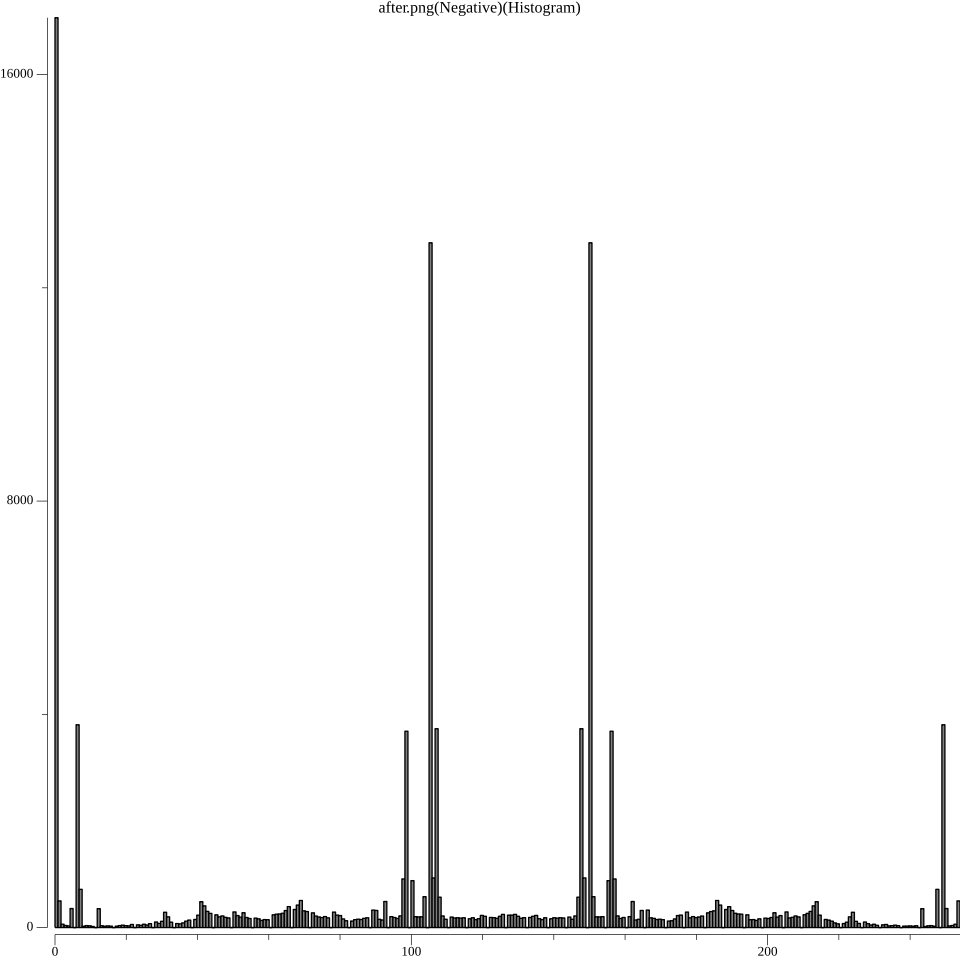
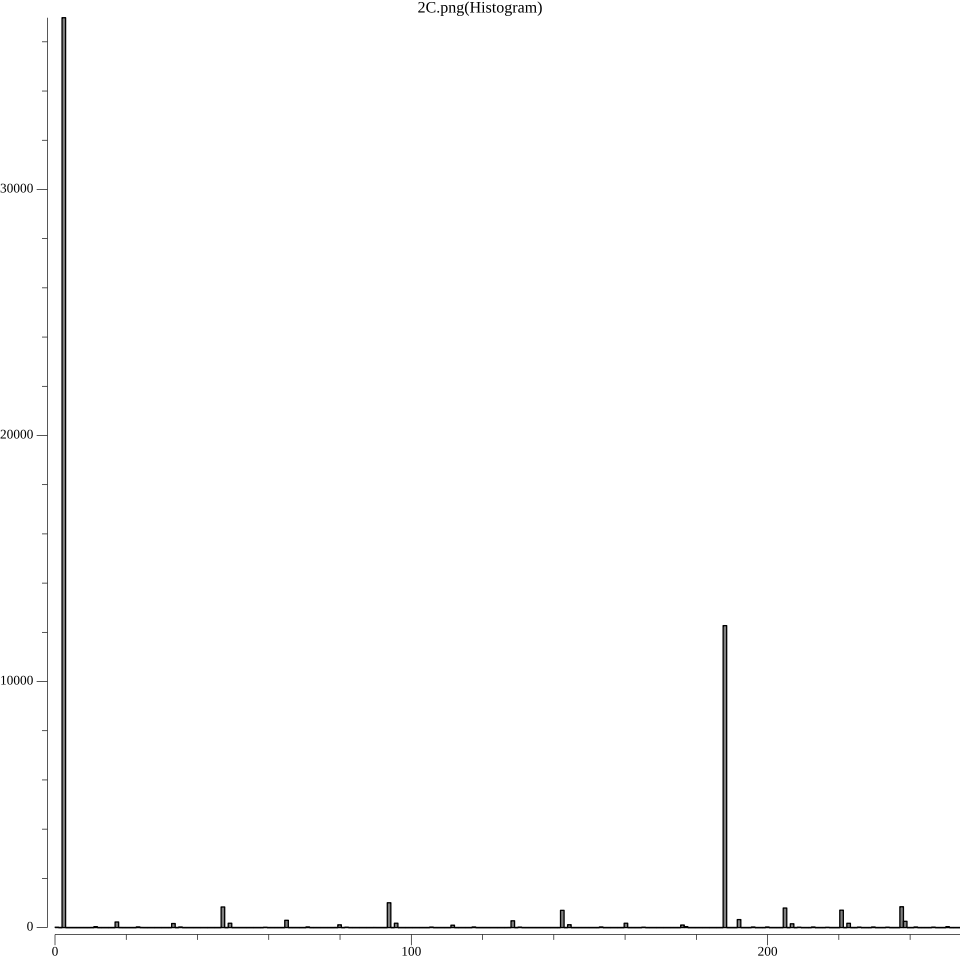
New Library to Chart, and created Histogram

Changed region(s): [[0.0, 0.0312, 1.0, 0.9688], [0.4062, 0.0, 0.5938, 0.0312]]

diff --git a/pkg/userInterface/userInterface.go b/pkg/userInterface/userInterface.go
@@ -2,8 +2,8 @@ package userinterface
 
 import (
 	"fmt"
-	"image"
 	"image/png"
+	"log"
 	"os"
 
 	"fyne.io/fyne/v2"
@@ -13,9 +13,8 @@ import (
 	"fyne.io/fyne/v2/layout"
 	"fyne.io/fyne/v2/storage"
 	"fyne.io/fyne/v2/widget"
-	"gonum.org/v1/plot"
-	"gonum.org/v1/plot/plotter"
-	"gonum.org/v1/plot/vg"
+	"github.com/wcharczuk/go-chart/v2"
+	"github.com/wcharczuk/go-chart/v2/drawing"
 
 	ourimage "github.com/vision-go/vision-go/pkg/ourImage"
 )
@@ -116,16 +115,111 @@ func (ui *UI) histogram() {
 	a := ui.App.NewWindow(ui.tabs.Selected().Text + "(Histogram)")
 	a.Resize(fyne.NewSize(500, 500))
 	a.Show()
-	fmt.Printf("%v", ui.tabsElements[ui.tabs.SelectedIndex()].Histogram)
-	plot := plot.New()
-	hist, _ := plotter.NewHistogram(ui.tabsElements[ui.tabs.SelectedIndex()].Histogram, 300)
-	hist.Color.RGBA()
-	plot.Add(hist)
-	plot.Title.Text = ui.tabs.Selected().Text + "(Histogram)"
-	if err := plot.Save(10*vg.Inch, 10*vg.Inch, "tmp/hist.png"); err != nil {
-		panic(err)
+
+
+	var RedGraph []float64
+	var GreenGraph []float64
+	var BlueGraph []float64
+
+	var GrayGraph []float64
+	var indexValues []float64
+
+	for i := 0; i < 256; i++{
+		indexValues = append(indexValues, float64(i))
+		GrayGraph = append(GrayGraph, float64(ui.tabsElements[ui.tabs.SelectedIndex()].Histogram.Values[i])) 
+		RedGraph = append(RedGraph, float64(ui.tabsElements[ui.tabs.SelectedIndex()].HistogramR.Values[i]))
+		GreenGraph = append(GreenGraph, float64(ui.tabsElements[ui.tabs.SelectedIndex()].HistogramG.Values[i]))
+		BlueGraph = append(BlueGraph,float64(ui.tabsElements[ui.tabs.SelectedIndex()].HistogramB.Values[i]))
 	}
-	f, _ := os.Open("tmp/hist.png")
-	img, _, _ := image.Decode(f)
-	a.SetContent(canvas.NewImageFromImage(img))
+	graph := chart.Chart{
+		Series: []chart.Series{
+			chart.ContinuousSeries{
+				Style: chart.Style{
+					StrokeColor: drawing.Color{
+						R:255,
+						G:0,
+						B:0,
+						A:255,
+					},
+					FillColor: drawing.Color{
+						R:255,
+						G:0,
+						B:0,
+						A:127,
+					},
+				},
+				XValues: indexValues,
+				YValues: RedGraph,
+			},
+			chart.ContinuousSeries{
+				Style: chart.Style{
+					StrokeColor: drawing.Color{
+						R:0,
+						G:255,
+						B:0,
+						A:255,
+					},
+					FillColor: drawing.Color{
+						R:0,
+						G:255,
+						B:0,
+						A:127,
+					},
+				},
+				XValues: indexValues,
+				YValues: GreenGraph,
+			},
+			chart.ContinuousSeries{
+				Style: chart.Style{
+					StrokeWidth: 2.0,
+					StrokeColor: drawing.Color{
+						R:0,
+						G:0,
+						B:255,
+						A:255,
+					},
+					FillColor: drawing.Color{
+						R:0,
+						G:0,
+						B:255,
+						A:127,
+					},
+				},
+				XValues: indexValues,
+				YValues: BlueGraph,
+			},
+			chart.ContinuousSeries{
+				XValueFormatter: chart.IntValueFormatter,
+				YValueFormatter: chart.IntValueFormatter,
+				Style: chart.Style{
+					StrokeColor: drawing.Color{
+						R:0,
+						G:0,
+						B:0,
+						A:255,
+					},
+					FillColor: drawing.Color{
+						R:0,
+						G:0,
+						B:0,
+						A:127,
+					},
+				},
+				XValues: indexValues,
+				YValues: GrayGraph,
+			},
+		},
+	}
+	collector := &chart.ImageWriter{}
+	graph.Render(chart.PNG, collector)
+
+	image, err := collector.Image()
+	if err != nil {
+		log.Fatal(err)
+	}
+	fmt.Printf("Final Image: %dx%d\n", image.Bounds().Size().X, image.Bounds().Size().Y)
+
+
+
+	a.SetContent(canvas.NewImageFromImage(image))
 }

diff --git a/pkg/ourImage/ourImage.go b/pkg/ourImage/ourImage.go
@@ -26,6 +26,11 @@ type OurImage struct {
 	HistogramG histogram.Histogram
 	HistogramB histogram.Histogram
 	Histogram  histogram.Histogram
+
+	HistogramAccumulativeR histogram.Histogram
+	HistogramAccumulativeG histogram.Histogram
+	HistogramAccumulativeB histogram.Histogram
+	HistogramAccumulative histogram.Histogram
 }
 
 func (self *OurImage) MouseIn(mouse *desktop.MouseEvent) {
@@ -107,6 +112,17 @@ func Negative(originalImg OurImage) OurImage { // TODO it makes a copy
 }
 
 func makeHistogram(image *OurImage) {
+	for i := 0; i < 256; i++ {
+		image.HistogramR.Values[i] = 0
+		image.HistogramG.Values[i] = 0
+		image.HistogramB.Values[i] = 0
+		image.Histogram.Values[i] = 0
+
+		image.HistogramAccumulativeR.Values[i] = 0
+		image.HistogramAccumulativeG.Values[i] = 0
+		image.HistogramAccumulativeB.Values[i] = 0
+		image.HistogramAccumulative.Values[i] = 0
+	}
 	for i := 0; i < image.Image.Image.Bounds().Dx(); i++ {
 		for j := 0; j < image.Image.Image.Bounds().Dy(); j++ {
 			r, g, b, a := image.Image.Image.At(i, j).RGBA()
@@ -114,10 +130,19 @@ func makeHistogram(image *OurImage) {
 				r, g, b = r>>8, g>>8, b>>8
 				image.HistogramR.Values[r] = image.HistogramR.At(int(r)) + 1
 				image.HistogramG.Values[g] = image.HistogramG.At(int(r)) + 1
-				image.HistogramG.Values[b] = image.HistogramG.At(int(r)) + 1
-				grey := 0.222*float64(r) + 0.707*float64(g) + 0.071*float64(b)
+				image.HistogramB.Values[b] = image.HistogramG.At(int(r)) + 1
+
+				grey := 0.222*float64(r) + 0.707*float64(g) + 0.071*float64(b) // PAL
 				image.Histogram.Values[int(math.Round(grey))] = image.Histogram.At(int(math.Round(grey))) + 1
 			}
+		}
+	}
+	for index, _ := range image.Histogram.Values{
+		for i := 0; i < index; i++{	
+			image.HistogramAccumulativeR.Values[index] += image.HistogramR.At(i)
+			image.HistogramAccumulativeG.Values[index] += image.HistogramG.At(i)
+			image.HistogramAccumulativeB.Values[index] += image.HistogramB.At(i)
+			image.HistogramAccumulative.Values[index] += image.Histogram.At(i)
 		}
 	}
 
